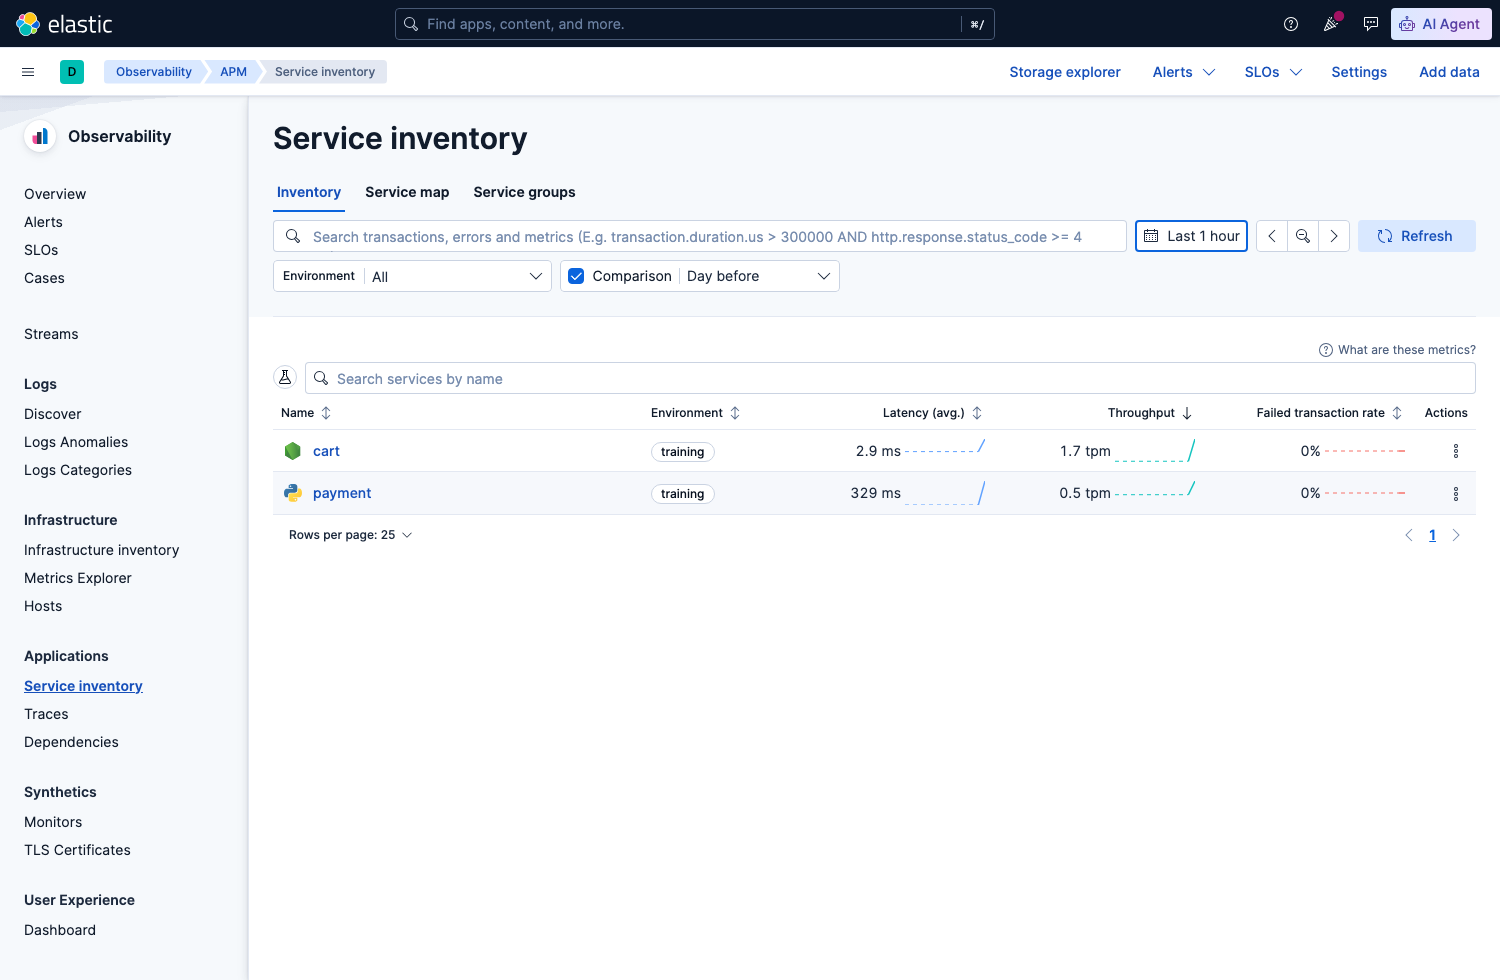
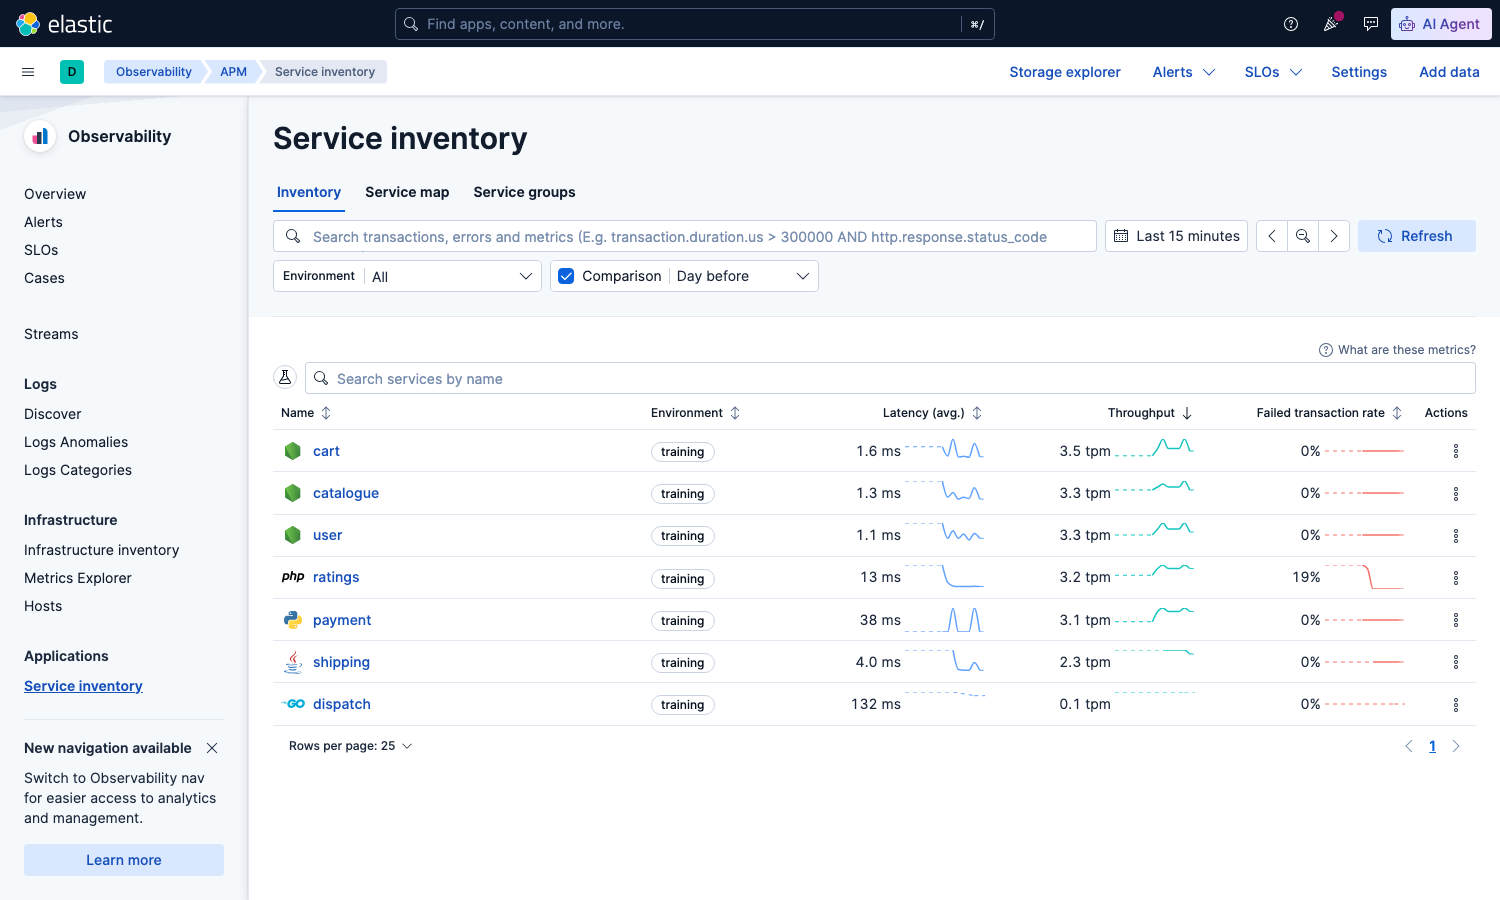
Sesi 6: expand APM instrumentation from 2 to all 7 Robot Shop services
catalogue, user, shipping, ratings, and dispatch now ship Elastic APM
agents alongside the existing cart/payment, covering five different
languages/frameworks (Node.js, Python, Java, PHP, Go). docker-compose.yml
points at the new :v2-apm images and fixes a missing dependency (ratings
was never listed in web's depends_on, leaving it exposed to the same
nginx DNS-race crash cart already guards against).

README rewritten to match: the "why only 2 services" framing is gone
(now explains what's intentionally excluded and why), the APM example
walks through a real fill-in-the-blank exercise instead of a plain diff,
and the architecture/terminology diagrams and service inventory
screenshot all reflect the full 7-service picture.

diff --git a/lab/day-3-analytics-optimization/sesi-6-performance-optimization/README.md b/lab/day-3-analytics-optimization/sesi-6-performance-optimization/README.md
@@ -16,19 +16,22 @@ Sesi ini dianggap selesai apabila Anda berhasil mengukur dan
 membandingkan `took` (waktu eksekusi) query sebelum/sesudah cache aktif,
 menjalankan `_profile` API untuk membedah waktu eksekusi query, mengubah
 `refresh_interval` index lalu mengembalikannya ke semula, serta melihat di
-Kibana APM **Service Inventory** bahwa service `cart` dan `payment`
-tampil dengan angka latency yang jauh berbeda, sehingga Anda dapat
-menyebutkan service mana yang lebih lambat dan berapa kira-kira
-selisihnya.
+Kibana APM **Service Inventory** bahwa beberapa service (mis. `payment`
+dan `shipping`) tampil dengan angka latency yang jauh berbeda dari
+service lain (mis. `cart`, `user`), sehingga Anda dapat menyebutkan
+service mana yang lebih lambat dan berapa kira-kira selisihnya.
 
 ## c. Teori & Struktur Sistem
 
 Robot Shop pada sesi ini adalah **kelanjutan langsung dari Sesi 4** —
-`cart` dan `payment` (image `:v2-apm`) sudah disisipi **Elastic APM
-agent** sejak awal. Traffic dari load generator (Locust) yang mengalir
-ke keduanya kini benar-benar **terpakai**: setiap request yang diproses
-menghasilkan data trace yang tersimpan di Elasticsearch dan dapat Anda
-analisis, bukan sekadar lewat di log lalu hilang seperti sebelumnya.
+tujuh service (`cart`, `payment`, `catalogue`, `user`, `shipping`,
+`ratings`, `dispatch`) sudah disisipi **Elastic APM agent** sejak awal
+(image `:v2-apm`), masing-masing dengan cara yang sesuai bahasa/framework-nya
+sendiri (lihat bagian d topik 3). Traffic dari load generator (Locust)
+yang mengalir ke semuanya kini benar-benar **terpakai**: setiap request
+yang diproses menghasilkan data trace yang tersimpan di Elasticsearch dan
+dapat Anda analisis, bukan sekadar lewat di log lalu hilang seperti
+sebelumnya.
 
 **Apa itu APM?** Application Performance Monitoring adalah cara mengukur
 seberapa cepat/lambat aplikasi merespons dari DALAM kode aplikasi itu
@@ -41,7 +44,7 @@ penyebabnya `cart`, `payment`, `shipping`, atau kombinasi ketiganya.
 
 **Cara kerja APM di stack ini:**
 
-![Diagram cara kerja APM: cart/payment mengirim trace ke apm-server, disimpan ke Elasticsearch, dibaca oleh Kibana APM UI](../../../docs/diagrams/sesi6-apm-architecture.svg)
+![Diagram cara kerja APM: 7 servis Robot Shop mengirim trace ke apm-server, disimpan ke Elasticsearch, dibaca oleh Kibana APM UI](../../../docs/diagrams/sesi6-apm-architecture.svg)
 
 1. **APM agent** — library kecil yang di-install DI DALAM kode aplikasi
    (satu per bahasa pemrograman: Python, Node.js, Java, dst.). Tugasnya
@@ -57,11 +60,18 @@ penyebabnya `cart`, `payment`, `shipping`, atau kombinasi ketiganya.
    detail per transaksi, tanpa Anda perlu menulis query manual (walaupun
    datanya tetap bisa di-query manual seperti index lain, lihat bagian d topik 3).
 
-**Mengapa hanya `cart` dan `payment`** (bukan seluruh 12 service)? Supaya
-sesi ini tetap fokus dan cepat — dua service ini representatif: `cart`
-(Node.js, operasi ringan ke Redis) berbanding `payment` (Python, operasi
-lebih berat termasuk panggilan HTTP keluar). Perbandingan keduanya sudah
-cukup untuk menunjukkan konsep "per-service latency" dengan jelas.
+**Mengapa BUKAN seluruh 12 servis Robot Shop?** Tujuh service aplikasi
+(`cart`, `payment`, `catalogue`, `user`, `shipping`, `ratings`,
+`dispatch`) sudah ber-APM — mencakup 5 bahasa/framework berbeda (Node.js,
+Python, Java, PHP, Go), jadi Anda tetap bisa membandingkan latency LINTAS
+BAHASA, bukan cuma dua titik data. Sisanya SENGAJA tidak diberi APM
+agent:
+- `web` — reverse proxy Nginx, bukan kode aplikasi yang bisa disisipi
+  agent APM (observability untuk Nginx pakai pendekatan lain, mis. modul
+  Metricbeat, di luar cakupan sesi ini).
+- `mongodb`/`mysql`/`redis`/`rabbitmq` — database/message-queue pihak
+  ketiga, sudah dipantau lewat `metricbeat` (Sesi 4) yang mengukur
+  metrik server DB-nya sendiri, bukan trace request aplikasi.
 
 **Tiga teknik optimasi lain yang tetap dibahas pada sesi ini** (memakai
 `kibana_sample_data_logs`, dataset besar dan deterministik supaya
@@ -174,11 +184,83 @@ bertambah setelah query kedua di atas, bukan angka absolutnya).
 
 ### 3. Melihat Latency per Microservice Lewat APM
 
-**Contoh Implementasi — perubahan NYATA pada source code Robot Shop**
-(bukan kode ilustrasi — ini persis diff yang diterapkan pada source asli
-Robot Shop, SEBELUM di-build menjadi image `:v2-apm` yang Anda pakai):
+**Contoh Implementasi — coba pasang sendiri APM agent-nya.** Berikut
+potongan ASLI `cart/server.js` SEBELUM disisipi Elastic APM (persis versi
+upstream Robot Shop, sebelum di-build menjadi image `:v2-apm` yang Anda
+pakai) — baris kosong yang ditandai adalah tempat kode APM agent
+seharusnya berada:
 
-Python (Flask) — `payment/payment.py` + `payment/requirements.txt`:
+```javascript
+const instana = require('@instana/collector');
+// init tracing
+// MUST be done before loading anything else!
+instana({
+    tracing: {
+        enabled: true
+    }
+});
+
+// <-- TULIS INISIALISASI ELASTIC APM AGENT DI SINI (lihat petunjuk di bawah)
+
+const redis = require('redis');
+const request = require('request');
+const bodyParser = require('body-parser');
+```
+
+**Tulis sendiri** kode yang seharusnya mengisi baris kosong di atas,
+menggunakan petunjuk berikut (JANGAN lihat jawaban di bawah dulu):
+- Package Node.js resmi Elastic bernama `elastic-apm-node`, dipanggil
+  lewat method `.start({...})`.
+- Sama seperti Instana di atasnya, agent ini WAJIB di-`require()`/`start()`
+  di baris PALING AWAL file — SEBELUM `require()` lain — supaya bisa
+  meng-instrument module yang di-load setelahnya.
+- Config yang dibutuhkan: `serviceName` (nama servis ini di Kibana APM,
+  isi `'cart'`), `serverUrl` (alamat `apm-server`, port `8200` — lihat
+  `docker-compose.yml` Sesi 4), `environment` (bebas, mis. `'training'`).
+
+<details>
+<summary>Jawaban (klik untuk membuka — cocokkan dengan tulisan Anda)</summary>
+
+```diff
+--- a/cart/server.js
++++ b/cart/server.js
+@@ -7,6 +7,13 @@ instana({
+     }
+ });
+
++// Elastic APM -- also MUST be required/started before other modules
++require('elastic-apm-node').start({
++    serviceName: 'cart',
++    serverUrl: process.env.ELASTIC_APM_SERVER_URL || 'http://apm-server:8200',
++    environment: process.env.ELASTIC_APM_ENVIRONMENT || 'training'
++});
++
+ const redis = require('redis');
+ const request = require('request');
+ const bodyParser = require('body-parser');
+--- a/cart/package.json
++++ b/cart/package.json
+@@ -17,6 +17,7 @@
+       "express-pino-logger": "^4.0.0",
+       "pino-pretty": "^2.5.0",
+       "@instana/collector": "^1.132.2",
+-      "prom-client": "^11.5.3"
++      "prom-client": "^11.5.3",
++      "elastic-apm-node": "^3.52.0"
+   }
+ }
+```
+Ini persis diff yang diterapkan ke source asli Robot Shop untuk
+menghasilkan image `:v2-apm` yang sedang Anda pakai — kalau tulisan Anda
+di atas berbeda TAPI polanya sama (`require().start({...})` di baris
+paling awal, tiga config key yang sama), itu tetap benar; tidak harus
+identik karakter demi karakter.
+</details>
+
+**Bandingkan dengan bahasa lain — Python (Flask), `payment/payment.py`**
+(pola instrumentasinya beda: pakai class `ElasticAPM(app)`, bukan
+`require().start()`, karena Flask instrumented lewat middleware, bukan
+hook global seperti Express):
 ```diff
 --- a/payment/payment.py
 +++ b/payment/payment.py
@@ -210,42 +292,29 @@ Python (Flask) — `payment/payment.py` + `payment/requirements.txt`:
  instana
 +elastic-apm[flask]
 ```
-
-Node.js (Express) — `cart/server.js` + `cart/package.json`:
-```diff
---- a/cart/server.js
-+++ b/cart/server.js
-@@ -7,6 +7,13 @@ instana({
-     }
- });
-
-+// Elastic APM -- also MUST be required/started before other modules
-+require('elastic-apm-node').start({
-+    serviceName: 'cart',
-+    serverUrl: process.env.ELASTIC_APM_SERVER_URL || 'http://apm-server:8200',
-+    environment: process.env.ELASTIC_APM_ENVIRONMENT || 'training'
-+});
-+
- const redis = require('redis');
- const request = require('request');
- const bodyParser = require('body-parser');
---- a/cart/package.json
-+++ b/cart/package.json
-@@ -17,6 +17,7 @@
-       "express-pino-logger": "^4.0.0",
-       "pino-pretty": "^2.5.0",
-       "@instana/collector": "^1.132.2",
--      "prom-client": "^11.5.3"
-+      "prom-client": "^11.5.3",
-+      "elastic-apm-node": "^3.52.0"
-   }
- }
-```
-Pola yang sama di kedua bahasa: agent di-`start()`/di-inisialisasi pada
-titik PALING AWAL aplikasi (sebelum route/module lain), diberi
-`serviceName` dan `serverUrl` APM Server tujuan. Begitu agent aktif,
-SETIAP request yang masuk ke `cart`/`payment` otomatis tercatat sebagai
+Meski caranya beda per bahasa/framework, TIGA hal ini selalu sama: agent
+diinisialisasi SEDINI mungkin, diberi `serviceName`/`SERVICE_NAME`, dan
+diberi `serverUrl`/`SERVER_URL` menunjuk ke `apm-server`. Begitu agent
+aktif, SETIAP request yang masuk otomatis tercatat sebagai
 **transaction**, tanpa perlu kode tambahan apa pun di tiap endpoint.
+
+**Tiga servis lain, tiga pola instrumentasi lain lagi** (`catalogue`/`user`
+memakai pola Node.js yang PERSIS sama seperti `cart` di atas — tidak
+diulang):
+
+| Servis | Bahasa | Pola instrumentasi | Perlu ubah source code? |
+|---|---|---|---|
+| `shipping` | Java (Spring Boot) | `-javaagent:elastic-apm-agent.jar` di flag start JVM (`CMD` pada `Dockerfile`) | TIDAK — javaagent meng-instrument bytecode saat runtime |
+| `ratings` | PHP (Apache) | Extension `.so` resmi Elastic + installer resmi, dimuat via `php.ini` | TIDAK — extension level, bukan kode aplikasi |
+| `dispatch` | Go | Transaction/span dibuat MANUAL lewat `go.elastic.co/apm/v2` di sekitar kode consumer RabbitMQ | YA — Go tidak punya auto-instrumentation, satu-satunya servis di sini yang butuh perubahan kode nyata |
+
+> **INFORMATION:** `dispatch` butuh perubahan kode manual karena Go APM
+> agent Elastic TIDAK melakukan auto-instrumentation seperti agent
+> Node.js/Python/Java/PHP di atas (keterbatasan bahasa Go sendiri, bukan
+> keterbatasan Elastic) — transaction & span harus dibuat eksplisit lewat
+> `tracer.StartTransaction()`/`apm.StartSpan()` di titik yang relevan
+> (dalam kasus `dispatch`: sekitar fungsi yang memproses pesan dari
+> `rabbitmq`, bukan HTTP handler seperti servis lain).
 
 **Kibana juga punya panduan instalasi APM agent bawaan** (generik, bukan
 khusus Robot Shop) — menu ☰ → Observability → APM → tombol **Add data**
@@ -274,15 +343,24 @@ per service yang dilewati, tapi bisa berisi BANYAK span.*
 
 **Buka Kibana APM** (menu ☰ → Observability → APM → Service inventory):
 
-![Kibana APM Service inventory menampilkan service cart dan payment dengan kolom latency, throughput, failed transaction rate](../../../docs/screenshots/sesi-6/01-apm-service-inventory.png)
+![Kibana APM Service inventory menampilkan tujuh servis Robot Shop dengan kolom latency, throughput, failed transaction rate, masing-masing dengan ikon bahasa pemrogramannya](../../../docs/screenshots/sesi-6/01-apm-service-inventory.png)
 
-*Dua service muncul otomatis — `cart` (ikon Node.js) dan `payment` (ikon
-Python) — kolom **Latency (avg.)** menunjukkan `payment` jauh lebih
-lambat dari `cart` (bedanya bisa puluhan hingga ratusan kali lipat,
-tergantung berapa lama load generator sudah berjalan pada perangkat
-Anda — coba refresh setelah beberapa menit apabila baru mulai). Ini
-PERSIS pertanyaan "servis mana yang lambat" yang tidak bisa dijawab
-hanya dari log biasa.*
+*Ketujuh service muncul otomatis, masing-masing dengan ikon bahasa yang
+benar (Node.js untuk `cart`/`catalogue`/`user`, PHP untuk `ratings`,
+Python untuk `payment`, Java untuk `shipping`, Go untuk `dispatch`) —
+kolom **Latency (avg.)** menunjukkan dua pola berbeda: `payment` dan
+`dispatch` jauh lebih lambat dari `cart`/`catalogue`/`user` (bedanya bisa
+puluhan hingga ratusan kali lipat), sementara `shipping` cuma sedikit
+lebih lambat (beberapa kali lipat saja, BUKAN puluhan/ratusan kali —
+jangan asumsikan semua service "berat" polanya sama). Perhatikan juga
+kolom **Failed transaction rate** pada `ratings` — angka yang jauh dari
+0% di kolom itu adalah sinyal masalah yang BERBEDA dari sekadar latency
+tinggi, dan patut diselidiki terpisah. Angka pasti pada layar Anda akan
+berbeda (tergantung berapa lama load generator sudah berjalan — coba
+refresh setelah beberapa menit apabila baru mulai), tapi POLA relatifnya
+(servis mana yang menonjol, dan MENGAPA — lambat vs sering gagal) akan
+konsisten. Ini PERSIS pertanyaan "servis mana yang bermasalah, dan
+bermasalah dengan cara apa" yang tidak bisa dijawab hanya dari log biasa.*
 
 **Klik salah satu service** (mis. `payment`) untuk melihat detail:
 
@@ -352,9 +430,12 @@ GET traces-apm-default/_search
   }
 }
 ```
-Expected Output: dua bucket, `cart` dengan `avg_duration_ms` di kisaran
-satuan milidetik, `payment` di kisaran ratusan milidetik — konsisten
-dengan yang tampil di Service Inventory di atas.
+Expected Output: TUJUH bucket (satu per servis ber-APM) — `cart`/`user`/
+`catalogue`/`shipping` dengan `avg_duration_ms` di kisaran satuan
+milidetik, `ratings` di kisaran belasan milidetik, `payment` di kisaran
+ratusan milidetik, `dispatch` juga di kisaran ratusan milidetik (delay
+`time.Sleep` yang sengaja ditanam di kode simulasi pemrosesan order) —
+konsisten dengan yang tampil di Service Inventory di atas.
 
 > **INFORMATION:** ini adalah pola yang diharapkan, bukan angka pasti —
 > angka aktual Anda tergantung berapa lama load generator sudah berjalan.

diff --git a/lab/day-2-query-relevance/sesi-4-relevance-scoring/robot-shop-structure.md b/lab/day-2-query-relevance/sesi-4-relevance-scoring/robot-shop-structure.md
@@ -54,7 +54,7 @@ observability yang membaca/menerima data dari servis-servis di atas:
 
 | Service | Fungsi |
 |---|---|
-| `apm-server` | Menerima data trace APM dari `cart`/`payment` (image `:v2-apm`), menyimpannya ke Elasticsearch. |
+| `apm-server` | Menerima data trace APM dari `cart`/`payment`/`catalogue`/`user`/`shipping`/`ratings`/`dispatch` (image `:v2-apm`), menyimpannya ke Elasticsearch. |
 | `metricbeat` | Mengumpulkan metrik `mongodb`, `mysql`, `redis`, `rabbitmq` secara berkala. |
 | `logstash-rs` | Mem-parsing log `payment`/`cart`/`web` (grok/JSON) yang dikirim `filebeat-rs`. |
 | `filebeat-rs` | Membaca log seluruh container Robot Shop, mengirimkannya ke `logstash-rs`. |
